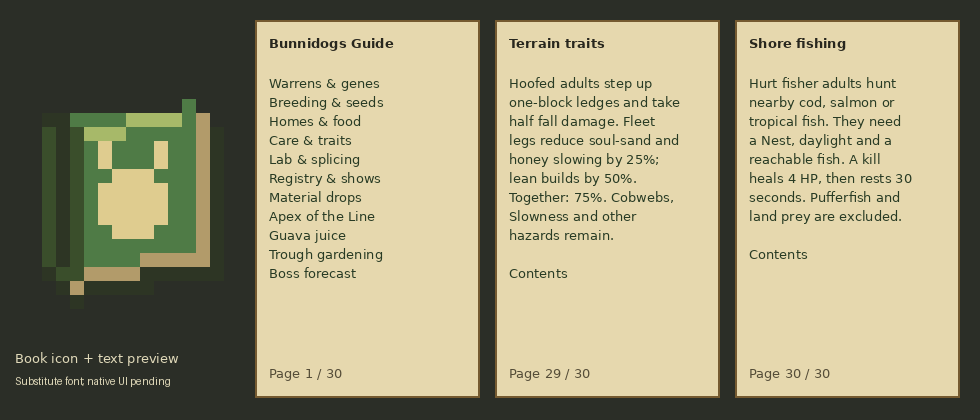
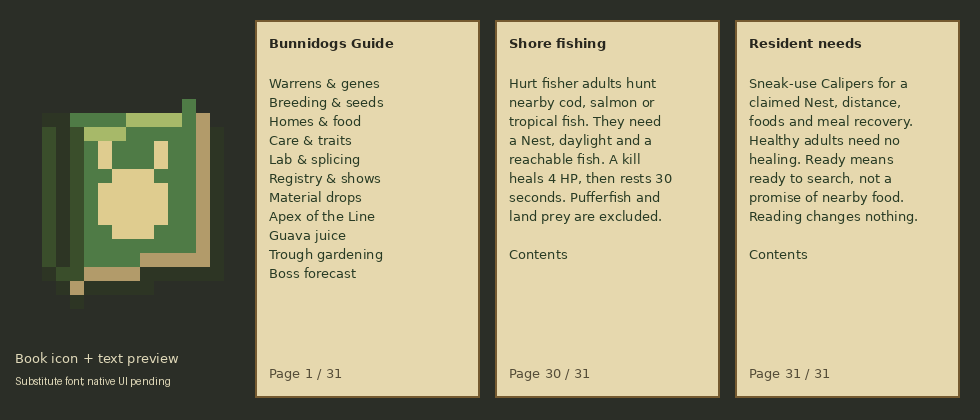
Show resident home and food needs with shared eligibility

diff --git a/tools/gametest/java/com/bunnidogs/mod/entity/SettlementGameTest.java b/tools/gametest/java/com/bunnidogs/mod/entity/SettlementGameTest.java
@@ -5,6 +5,7 @@ import com.bunnidogs.mod.block.FeedingTroughBlockEntity;
 import com.bunnidogs.mod.genetics.Foraging;
 import com.bunnidogs.mod.genetics.Gene;
 import com.bunnidogs.mod.genetics.Genome;
+import com.bunnidogs.mod.item.CalipersItem;
 import com.bunnidogs.mod.registry.ModBlocks;
 import com.bunnidogs.mod.registry.ModEntities;
 import net.minecraft.core.BlockPos;
@@ -45,7 +46,15 @@ public final class SettlementGameTest {
             long previous = level.clockManager().getTotalTicks(clock);
             try {
                 level.clockManager().setTotalTicks(clock,1000);
+                h.assertTrue(dog.foragingStatus() == Foraging.Status.HOME,"An injured adult without a Nest must explain its missing home");
                 h.assertTrue(dog.moveHomeTo(level,h.absolutePos(new BlockPos(1,1,1))) == NestHome.MoveResult.MOVED,"Resident must claim its existing Nest");
+                h.assertTrue(dog.foragingStatus() == Foraging.Status.READY,"Food AI and snapshot must agree when ready to search");
+                var reader = h.makeMockPlayer(GameType.SURVIVAL);
+                var homeBefore = dog.homeNest();
+                CalipersItem.showCare(reader,dog);
+                h.assertTrue(dog.getHealth() == dog.getMaxHealth()-4 && dog.forageWait() == 0
+                        && dog.homeNest().equals(homeBefore) && trough.food().getCount() == 16,
+                        "Home/food inspection must not change health, recovery, the Nest or stock");
                 var goal = new TroughGoal(dog);
                 h.assertTrue(goal.canUse(),"An injured resident must find a loaded reachable matching trough");
                 float health = dog.getHealth();
@@ -54,6 +63,17 @@ public final class SettlementGameTest {
                 goal.stop();
                 h.assertTrue(dog.getHealth() == health+Foraging.HEAL && trough.food().getCount() == 15 && !dog.canForage(),
                         "One meal must heal two HP, consume one item and start shared meal recovery");
+                CalipersItem.showCare(reader,dog);
+                h.assertTrue(dog.foragingStatus() == Foraging.Status.RESTING && dog.forageWait() == Foraging.MEAL_COOLDOWN,
+                        "Reading shared meal recovery must neither restart nor bypass it");
+                dog.setHealth(dog.getMaxHealth());
+                h.assertTrue(dog.foragingStatus() == Foraging.Status.HEALTHY && dog.forageWait() == Foraging.MEAL_COOLDOWN,
+                        "A fully healed animal must retain visible food recovery without claiming hunger");
+                dog.setHealth(health+Foraging.HEAL);
+                var beforeMove = dog.position();
+                dog.setPos(homeBefore.getX()+18.5,homeBefore.getY(),homeBefore.getZ()+.5);
+                h.assertTrue(dog.foragingStatus() == Foraging.Status.OUTSIDE_HOME,"Snapshot and food AI must share the home boundary");
+                dog.setPos(beforeMove);
                 var player = h.makeMockPlayer(GameType.SURVIVAL);
                 player.setShiftKeyDown(true); player.setItemInHand(InteractionHand.MAIN_HAND,ItemStack.EMPTY);
                 h.useBlock(new BlockPos(4,1,4),player);

diff --git a/src/main/java/com/bunnidogs/mod/entity/Bunnidog.java b/src/main/java/com/bunnidogs/mod/entity/Bunnidog.java
@@ -384,11 +384,20 @@ public class Bunnidog extends Animal implements net.neoforged.neoforge.common.IS
     }
 
     boolean canForage() {
-        BlockPos nest = this.homeNest();
-        return !this.beingTransported() && this.level().getGameTime() >= this.nextForageTick
-                && Foraging.canForage(!this.isBaby(), this.getHealth() < this.getMaxHealth(), nest != null,
-                        this.homeNight(), this.getTarget() != null && this.getTarget() != this.huntingTarget)
-                && Foraging.insideHome(nest == null ? Double.POSITIVE_INFINITY : this.blockPosition().distSqr(nest));
+        return this.foragingStatus() == Foraging.Status.READY;
+    }
+    public int forageWait() {
+        return (int)Math.clamp(this.nextForageTick-this.level().getGameTime(),0L,(long)Foraging.MEAL_COOLDOWN);
+    }
+    /** Eligibility, not a food search. Shared with the Calipers resident snapshot. */
+    public Foraging.Status foragingStatus() {
+        if (!this.acceptsCare() || !this.isAlive() || !(this.level() instanceof ServerLevel)) return Foraging.Status.UNAVAILABLE;
+        var status = Foraging.status(!this.isBaby(),this.getHealth() < this.getMaxHealth(),this.homeNest() != null,
+                this.homeNight(),this.getTarget() != null && this.getTarget() != this.huntingTarget);
+        if (status != Foraging.Status.READY) return status;
+        if (this.beingTransported()) return Foraging.Status.TRANSPORTED;
+        if (!this.foodWithinHome(this.blockPosition())) return Foraging.Status.OUTSIDE_HOME;
+        return this.forageWait() > 0 ? Foraging.Status.RESTING : status;
     }
 
     boolean foodWithinHome(BlockPos pos) {
@@ -710,7 +719,7 @@ public class Bunnidog extends Animal implements net.neoforged.neoforge.common.IS
         output.putString(TAG_STATS, this.stats().toString());
         if (this.highestShowAward > 0) output.putInt("ShowAward", this.highestShowAward);
         if (this.gardeningWait() > 0) output.putInt("GardenWait",this.gardeningWait());
-        output.putInt("ForageWait", (int) Math.clamp(this.nextForageTick - this.level().getGameTime(), 0L, (long) Foraging.MEAL_COOLDOWN));
+        output.putInt("ForageWait",this.forageWait());
         if (this.samplingWait() > 0) output.putInt("SampleWait",this.samplingWait());
         if (this.groomingWait() > 0) output.putInt("GroomWait",this.groomingWait());
         if (this.fleeceWait() > 0) output.putInt("FleeceWait",this.fleeceWait());

diff --git a/src/main/java/com/bunnidogs/mod/item/CalipersItem.java b/src/main/java/com/bunnidogs/mod/item/CalipersItem.java
@@ -8,6 +8,8 @@ import java.util.function.Consumer;
 import com.bunnidogs.mod.block.SeedCropBlockEntity;
 import com.bunnidogs.mod.entity.Bunnidog;
 import com.bunnidogs.mod.genetics.Gene;
+import com.bunnidogs.mod.genetics.Diet;
+import com.bunnidogs.mod.genetics.Foraging;
 import com.bunnidogs.mod.genetics.Gardening;
 import com.bunnidogs.mod.genetics.Grooming;
 import com.bunnidogs.mod.genetics.Sampling;
@@ -61,6 +63,22 @@ public class CalipersItem extends Item {
     /** Server-side care snapshot. No items, timers or animal state are changed. */
     public static void showCare(Player player, Bunnidog dog) {
         player.sendSystemMessage(Component.translatable("message.bunnidogs.care.header", dog.getDisplayName()).withStyle(ChatFormatting.GOLD));
+        if (!dog.acceptsCare()) {
+            player.sendSystemMessage(Component.translatable("message.bunnidogs.care.unavailable").withStyle(ChatFormatting.GRAY));
+            return;
+        }
+        var nest = dog.homeNest();
+        careRow(player,"home",nest == null ? Component.translatable("message.bunnidogs.care.home_none")
+                : Component.translatable("message.bunnidogs.care.home_at",nest.getX(),nest.getY(),nest.getZ(),
+                        String.format(Locale.ROOT,"%.1f",Math.sqrt(dog.blockPosition().distSqr(nest)))));
+        careRow(player,"food",dog.diet() == Diet.PLAIN ? Component.translatable("message.bunnidogs.care.food_guavas")
+                : Component.translatable("message.bunnidogs.care.food_other",dog.diet().foods()));
+        var meals = dog.foragingStatus();
+        Component foodStatus = meals == Foraging.Status.RESTING ? recovery(dog.forageWait())
+                : Component.translatable("message.bunnidogs.foraging." + meals.name().toLowerCase(Locale.ROOT));
+        if (dog.forageWait() > 0 && meals != Foraging.Status.RESTING)
+            foodStatus = Component.translatable("message.bunnidogs.care.status_recovery",foodStatus,recovery(dog.forageWait()));
+        careRow(player,"foraging",foodStatus);
         boolean healthy = Sampling.healthy(dog.getHealth(), dog.getMaxHealth());
         Component health = Component.translatable("message.bunnidogs.care.health");
         Component adult = Component.translatable("message.bunnidogs.care.adult");

diff --git a/art/gen_guide.py b/art/gen_guide.py
@@ -34,6 +34,7 @@ PAGES = {
     28: ('Living dust', 'Brush a healthy glow adult for one glowstone dust. A starborn adult with Bloom +20 yields one Starlit Dust. Senses +10 still adds a whisker. One Brush use gathers all matches; recovery is ten minutes.'),
     29: ('Terrain traits', 'Hoofed adults step up one-block ledges and take half fall damage. Fleet legs reduce soul-sand and honey slowing by 25%; lean builds by 50%. Together: 75%. Cobwebs, Slowness and other hazards remain.'),
     30: ('Shore fishing', 'Hurt fisher adults hunt nearby cod, salmon or tropical fish. They need a Nest, daylight and a reachable fish. A kill heals 4 HP, then rests 30 seconds. Pufferfish and land prey are excluded.'),
+    31: ('Resident needs', 'Sneak-use Calipers for a claimed Nest, distance, foods and meal recovery. Healthy adults need no healing. Ready means ready to search, not a promise of nearby food. Reading changes nothing.'),
 }
 INDEX = {2:'Warrens & genes',4:'Breeding & seeds',8:'Homes & food',11:'Care & traits',15:'Lab & splicing',
          17:'Registry & shows',19:'Material drops',20:'Apex of the Line',24:'Guava juice',25:'Trough gardening',27:'Boss forecast'}
@@ -82,7 +83,7 @@ def main():
         bold = ImageFont.truetype('DejaVuSans-Bold.ttf',13)
     except OSError:
         font = bold = ImageFont.load_default()
-    for x,page in [(255,1),(495,29),(735,30)]:
+    for x,page in [(255,1),(495,30),(735,31)]:
         d.rectangle((x,20,x+224,397),fill=(230,216,174),outline=(117,90,48),width=2)
         d.text((x+14,35), 'Bunnidogs Guide' if page == 1 else PAGES[page][0], font=bold,fill=(40,39,30))
         if page == 1: body = '\n'.join(INDEX.values())

diff --git a/src/main/java/com/bunnidogs/mod/genetics/Foraging.java b/src/main/java/com/bunnidogs/mod/genetics/Foraging.java
@@ -12,11 +12,19 @@ public final class Foraging {
     public static final int HUNT_TICKS = 400;
 
     public enum Meal { NONE, HAY, GRASS, WHEAT, PRODUCE }
+    public enum Status { READY, UNAVAILABLE, ADULT, HEALTHY, HOME, DAYTIME, DANGER, TRANSPORTED, OUTSIDE_HOME, RESTING }
     public static boolean handFood(boolean edible, boolean breedingFood, boolean hurt, boolean canGrow) {
         return edible && !breedingFood && (hurt || canGrow);
     }
     public static boolean canForage(boolean adult, boolean hurt, boolean hasNest, boolean night, boolean hasTarget) {
-        return adult && hurt && hasNest && !night && !hasTarget;
+        return status(adult,hurt,hasNest,night,hasTarget) == Status.READY;
+    }
+    public static Status status(boolean adult, boolean hurt, boolean hasNest, boolean night, boolean hasTarget) {
+        if (!adult) return Status.ADULT;
+        if (!hurt) return Status.HEALTHY;
+        if (!hasNest) return Status.HOME;
+        if (hasTarget) return Status.DANGER;
+        return night ? Status.DAYTIME : Status.READY;
     }
     public static boolean insideHome(double distanceSquared) {
         return distanceSquared >= 0 && distanceSquared <= (double) Home.HOME_RADIUS * Home.HOME_RADIUS;

diff --git a/src/main/java/com/bunnidogs/mod/item/FieldGuideItem.java b/src/main/java/com/bunnidogs/mod/item/FieldGuideItem.java
@@ -11,7 +11,7 @@ import net.minecraft.world.item.component.WrittenBookContent;
 
 /** Native book UI/packets, translated pages and local page links; no custom screen or payload. */
 public final class FieldGuideItem extends WrittenBookItem {
-    public static final int PAGE_COUNT = 30;
+    public static final int PAGE_COUNT = 31;
     public FieldGuideItem(Properties properties) {
         super(properties.component(DataComponents.WRITTEN_BOOK_CONTENT, content()));
     }

diff --git a/START_HERE.md b/START_HERE.md
@@ -20,6 +20,12 @@ is not exposed in this session: use available work budget without inventing quot
 
 ## Latest gameplay work — 2026-10-16
 
+- **C6, resident needs:** sneak-Calipers shows the Nest coordinates/distance,
+  accepted foods, shared meal recovery and forage blockers. Food AI and readout
+  use the same eligibility snapshot; inspection does not search/load terrain
+  or change tickets/timers/stock. Healthy adults need no healing, and the Apex
+  gets a clear domestic-care refusal. See `docs/CARE_SPECS.md` C6.
+
 - **Diet D5, shore fishing:** injured adult Fishers hunt reachable tagged cod,
   salmon and tropical fish near their Nest. Hunter/omnivore land prey stays
   separate; pufferfish are excluded by default. A selected prey kill heals 4 HP
@@ -48,7 +54,7 @@ is not exposed in this session: use available work budget without inventing quot
   all eight crops remain. End mushroom plots and saved versions 1–3 keep their
   previous layout. See `docs/SETTLEMENT_LIFE.md` L5.
 
-The native Field Guide now has 30 translated pages and eleven contents links.
+The native Field Guide now has 31 translated pages and eleven contents links.
 `art/gen_guide.py` owns its text/icon/preview, including gardening, forecasts,
 renewable care, terrain traits and fishing. `art/gen_pantries.py` owns the eight
 new loot tables and shares the guide pool. See `docs/FIELD_GUIDE.md`.
@@ -62,7 +68,7 @@ new loot tables and shares the guide pool. See `docs/FIELD_GUIDE.md`.
 | Laboratory | Two sample slots, vial display, pup/copy odds and both-direction splice plans. `docs/TABLE_SPECS.md` T1–T6 |
 | Gene Splicer | One donor expressed copy, chosen gene, sample/Mutagen/tool cost, recipient recovery; breeding fixes pairs. `docs/SPLICER_SPECS.md` |
 | Registry and shows | Distinct stable bred lines, linked snapshots, balanced-stat bronze/silver/gold judging, per-animal awards, ribbons and Champion Line. `docs/REGISTRY_SPECS.md`, `docs/SHOW_SPECS.md` |
-| Care | Live Tissue Samples, woolly fleece, whiskers/dust, saved recoveries and sneak-Calipers care/work status. `docs/CARE_SPECS.md` C1–C5 |
+| Care | Live Tissue Samples, woolly fleece, whiskers/dust, saved recoveries and sneak-Calipers home/food/care/work status. `docs/CARE_SPECS.md` C1–C6 |
 | Adaptations | Expressed fire/cold/fall/Poison/cactus/Levitation benefits, slate armor, heavy-build knockback resistance, self-lit glow and terrain movement. `docs/CARE_SPECS.md` A1–A4 |
 | Homes | Claimable Nests, day tether/night return, floor Nests, native leads/rides, safe led-adult reassignment. `docs/HOME_SPECS.md` H1–H5 |
 | Settlement life | Saved trough stock, diet healing, noon bell visits, fitted den furniture, hoe-controlled gardening and local stores. `docs/SETTLEMENT_LIFE.md` L1–L6 |
@@ -128,6 +134,10 @@ including a real shore-fish kill, exact healing and saved meal recovery. Its
 fixture allows native melee's twenty-tick startup window and keeps the bank dry.
 Farm and affected guide previews inspected. Each published checkpoint's GitHub
 build also checks the approved model before making an artifact.
+
+C6 also passes the actual build and all twenty native cases. Its extended
+settlement case checks read-only needs, real meal recovery, healthy animals and
+the home boundary. The updated guide preview is inspected.
 
 Native tests establish server behavior, not complete client or natural-world
 play. Remaining review includes client interaction/lighting/book fonts, natural

diff --git a/docs/CARE_SPECS.md b/docs/CARE_SPECS.md
@@ -96,6 +96,28 @@ the original age/health/save/creative/tool-breakage checks. Actual build and all
 eighteen native scenarios pass; the updated guide preview is inspected. Client
 interaction and long-term production balance still need gameplay review.
 
+## C6: Resident needs snapshot
+
+Sneak-Calipers now starts with the claimed Nest's coordinates and distance,
+accepted foods, and the current resident-meal status. Food eligibility is shared
+with the real trough/grazing/hunting goals: adulthood, injury, a Nest, day,
+transport, combat, home boundary and saved meal recovery. Healthy adults say
+"no healing needed", without inventing hunger. Recovery is still shown while
+healthy or otherwise blocked, rounded up to minutes:seconds.
+
+Ready means ready to search for reachable matching food; it does not claim that
+stock or prey exists. Reading only uses existing animal state and coordinates,
+with no POI/path/terrain search, chunk loading, ticket changes or timer resets.
+The same `ForageWait` save field is retained. The Apex gets one clear domestic
+care refusal rather than misleading care-ready rows. Normal Calipers sheets
+remain available. The Field Guide expands to 31 pages.
+
+The existing native settlement case covers missing/claimed homes, agreement with
+AI readiness, a real trough meal, saved-length recovery, full health, the home
+boundary and read-only inspection. Actual build and all twenty native scenarios
+pass; updated guide preview inspected. Client chat formatting remains gameplay
+review.
+
 ## A1/A2: Expressed environmental adaptations
 
 | Expressed trait | Benefit |

diff --git a/docs/ROADMAP.md b/docs/ROADMAP.md
@@ -16,6 +16,11 @@ and mouths, **H3b** house floor Nests. V1a, V1b, H3 and H4 WORK.
 
 ## Latest implemented work (gameplay pending)
 
+C6 adds read-only Calipers Nest/food/recovery status, sharing food eligibility
+with the real resident goals and keeping inspection free of terrain searches.
+Healthy animals need no healing; the Apex reports domestic care unavailable.
+See `CARE_SPECS.md`.
+
 Diet D5 lets injured resident Fishers hunt reachable tagged cod/salmon/tropical
 fish near home, sharing bounded native hunting and saved meal recovery.
 Land predators keep their separate prey list, and gene changes interrupt
@@ -139,7 +144,6 @@ filling a quota, and honor any explicit pause in the current request.
 
 | Item | What | Needs | Spec |
 |---|---|---|---|
-| Resident needs visibility | Extend the cheap Calipers snapshot with claimed Nest location, food recovery and current forage blockers; no path/terrain scans | H5, L5, Diet D5 | Define shared readout before coding |
 | Resident refuge | Bounded non-combat responses to nearby configured threats, yielding to transport and preserving homes; define safe destinations and interruptions first | H1–H5, L1–L6 | `SETTLEMENT_LIFE.md`; design before coding |
 | Further living harvests | Other fitting renewable materials beyond fleece, whiskers and glow/starborn dust | C1–C5 | `CARE_SPECS.md`; define each source/yield before coding |
 | Further lineage behavior | Other useful habitat routines beyond existing protection, defenses and terrain benefits | A1–A4 | Follow expressed genes; preserve native hazards and breeding tradeoffs |

diff --git a/docs/FEATURES.md b/docs/FEATURES.md
@@ -1,7 +1,7 @@
 # Bunnidogs: how to use each feature in game
 
 **Field Guide (P1):** combine a vanilla book with any guava. Use the book to
-open 30 pages from first warren to Apex, with clickable chapter/contents links.
+open 31 pages from first warren to Apex, with clickable chapter/contents links.
 It can also appear in unopened warren pantry barrels (35% chance). Native book
 pages, rather than a separate custom screen, explain the progression in-game.
 
@@ -71,7 +71,10 @@ leads/rides and night. Place a bell within 12 blocks of home with walking space.
 **Care status (C4):** sneak-use Calipers on a bunnidog to see sampling, fleece,
 grooming, splicing and gardening readiness in chat, including recovery times and eligibility
 requirements. Normal use opens its genetics sheet as before. The readout is a
-snapshot and costs nothing.
+snapshot and costs nothing. C6 also shows the claimed Nest coordinates/distance,
+accepted foods and shared meal recovery, including while healthy. Resident meals
+heal injury; there is no hunger meter. Ready means ready to search for reachable
+matching food. The Apex instead explains that domestic care is unavailable.
 
 **Show Ring (G3):** craft a Judging Stand with ` B /PGP/PWP`: book, any planks,
 gold ingot and any wool. Lead a bred adult within six blocks and use the stand

diff --git a/docs/FIELD_GUIDE.md b/docs/FIELD_GUIDE.md
@@ -8,6 +8,7 @@ The gardening pages include Calipers work status and new fitted corner troughs.
 Living-dust care has its own page explaining combined yields and shared recovery.
 The terrain page explains inherited stepping and partial slow-block resistance.
 Shore fishing explains resident Fisher prey, needs, healing and recovery.
+Resident needs explains the Calipers home/food/recovery snapshot.
 
 Craft one with a vanilla book and any guava (the existing bunnidog-food tag).
 Obtaining a guava unlocks its recipe. An additional independent 35% pantry loot
@@ -18,7 +19,7 @@ containers are not refilled and player inventories are not edited. See
 
 ## Presentation and saves
 
-Thirty pages use the ordinary written-book screen. Page 1 has eleven clickable
+Thirty-one pages use the ordinary written-book screen. Page 1 has eleven clickable
 chapter links; every other page links back to the contents. Local page changes
 are the only click action. All text is translatable through en_us.json. The
 book stacks to one and appears beside the Calipers in Tools & Utilities.

diff --git a/README.md b/README.md
@@ -4,7 +4,7 @@ A NeoForge mod for Minecraft 26.2: a baby-faced creature with rabbit ears and a
 dog's body, plus breeding, genetics, guavas, warrens, homes and pedigree tools.
 Requires JDK 25. The checked-in Gradle wrapper selects the project Gradle version.
 
-Craft a vanilla book with any guava for the **30-page Field Guide**. Sneak-use
+Craft a vanilla book with any guava for the **31-page Field Guide**. Sneak-use
 Calipers for care/work readiness, use a hoe on a Feeding Trough to enable
 resident gardening, and explore food stores for supplies suited to each lineage.
 Living glow/starborn lines yield renewable dust, while inherited terrain traits
